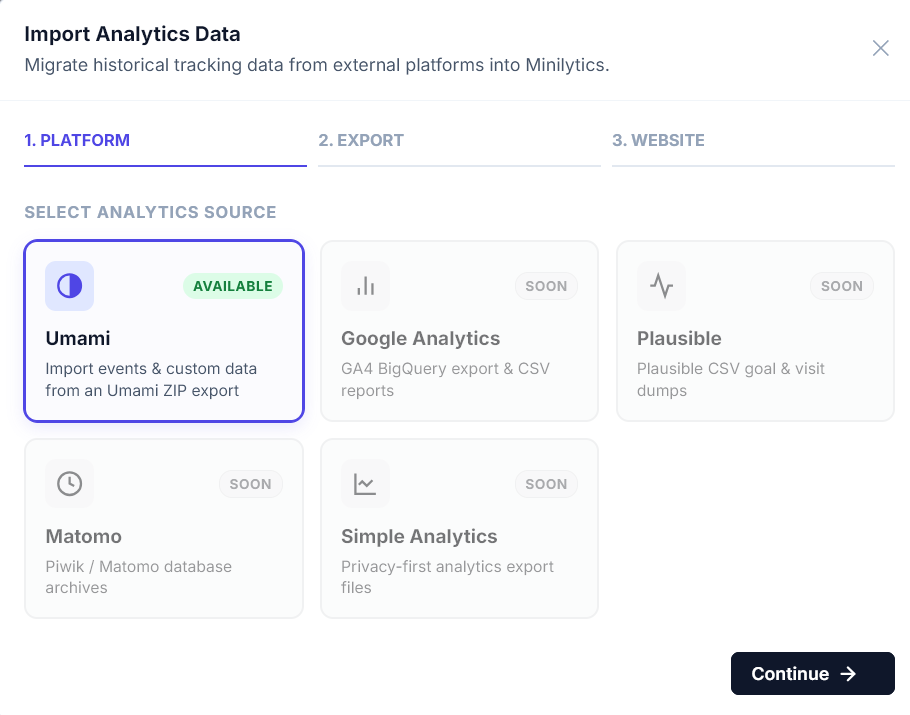
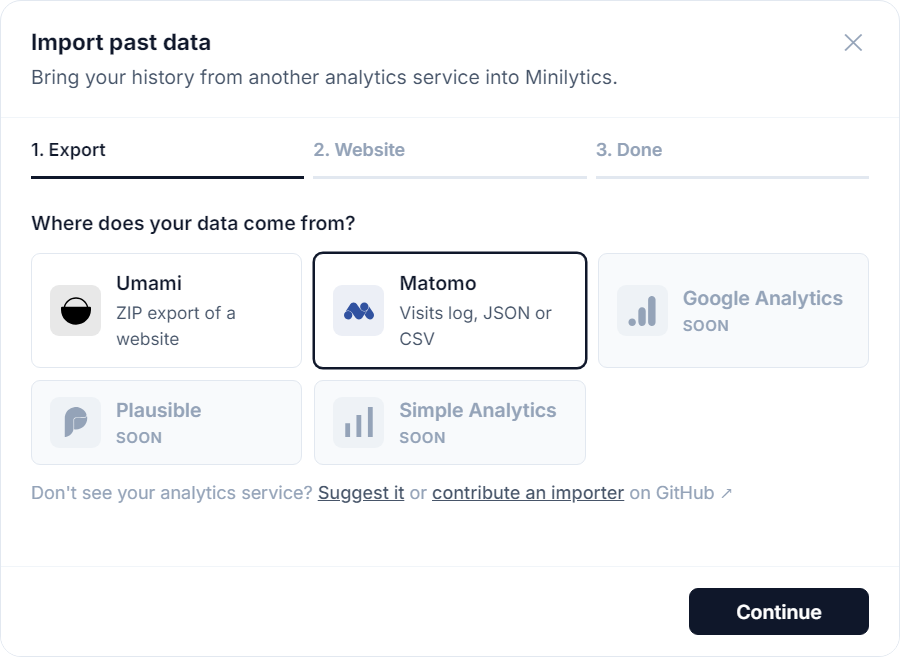
docs: add Umami and Matomo import guides
Each import source gets its own page on the docs website, from the
export to what you find in Minilytics afterwards. The importing page
links to them and explains how to keep the whole history. The
screenshots show the new import window, and the README and landing
page list Matomo as supported.

diff --git a/landing/index.html b/landing/index.html
@@ -196,16 +196,16 @@
                         </p>
                         <p class="card-sub">
                             Import past pageviews, custom events, and visitor
-                            sessions directly from <strong>Umami</strong> via
-                            the web dashboard or CLI. Support for Google
-                            Analytics (GA4), Plausible, Matomo, and Simple
-                            Analytics is actively planned.
+                            sessions directly from <strong>Umami</strong> and
+                            <strong>Matomo</strong> via the web dashboard or
+                            CLI. Support for Google Analytics (GA4), Plausible,
+                            and Simple Analytics is actively planned.
                         </p>
                     </div>
                     <div class="product-shot import-shot">
                         <img
                             src="images/import-data.png"
-                            alt="Minilytics data import interface supporting Umami, Google Analytics, Plausible, and Matomo"
+                            alt="The Minilytics import window, where you choose Umami or Matomo as the source of your past data"
                         />
                     </div>
                 </article>

diff --git a/scripts/docs/docs.css b/scripts/docs/docs.css
@@ -57,6 +57,7 @@ kbd {
 .nav-group a { display: block; margin: 1px 0; padding: 6px 12px; border-radius: 8px; color: var(--muted); font-size: 14.5px; font-weight: 600; text-decoration: none; transition: background .15s, color .15s; }
 .nav-group a:hover { background: var(--surface-muted); color: var(--ink); }
 .nav-group a.is-active { background: var(--accent-pale); color: var(--accent); }
+.nav-group a.nav-sub { margin-left: 12px; padding-left: 14px; border-left: 1px solid var(--line, #e2e8f0); border-radius: 0 8px 8px 0; font-size: 13.5px; }
 .toc-title { margin: 0 0 10px; color: var(--ink); font-size: 12px; font-weight: 800; letter-spacing: 0.06em; text-transform: uppercase; }
 .toc a { display: block; padding: 4px 0 4px 12px; border-left: 2px solid var(--line); color: var(--muted); font-size: 13.5px; line-height: 1.45; text-decoration: none; }
 .toc a.toc-h3 { padding-left: 24px; font-size: 13px; }

diff --git a/scripts/build-docs.php b/scripts/build-docs.php
@@ -27,6 +27,8 @@ $pages = [
     'privacy' => ['Getting started', 'privacy/README.md'],
     'operations' => ['Running Minilytics', 'operations/README.md'],
     'importing' => ['Running Minilytics', 'importing/README.md'],
+    'importing/umami' => ['Running Minilytics', 'importing/umami.md'],
+    'importing/matomo' => ['Running Minilytics', 'importing/matomo.md'],
     'mcp' => ['Running Minilytics', 'mcp/README.md'],
 ];
 $slugByFile = array_flip(array_map(static fn(array $page): string => $page[1], $pages));
@@ -84,6 +86,10 @@ foreach ($pages as $slug => [$group, $file]) {
 // The home page lists the guides with the descriptions from docs/README.md.
 $guides = [];
 foreach (array_slice($rendered, 1) as $page) {
+    // Sub-pages, such as one guide per import source, are reached from their parent page.
+    if (str_contains($page['slug'], '/')) {
+        continue;
+    }
     preg_match('/\[[^\]]+\]\(' . preg_quote($page['slug'], '/') . '\/README\.md\)[.:]\s*(.+)$/m', (string) file_get_contents($source . '/README.md'), $match);
     $guides[] = $page + ['summary' => ucfirst(trim($match[1] ?? $page['description']))];
 }

diff --git a/scripts/docs/template.php b/scripts/docs/template.php
@@ -30,7 +30,8 @@ function docs_page(array $page, array $pages, ?array $previous, ?array $next, ar
             $group = $item['group'];
         }
         $current = $item['slug'] === $page['slug'];
-        $nav .= '<a href="' . $e($item['url']) . '"' . ($current ? ' class="is-active" aria-current="page"' : '') . '>' . $e($item['slug'] === '' ? 'Introduction' : $item['title']) . '</a>';
+        $classes = trim((str_contains($item['slug'], '/') ? 'nav-sub ' : '') . ($current ? 'is-active' : ''));
+        $nav .= '<a href="' . $e($item['url']) . '"' . ($classes !== '' ? ' class="' . $classes . '"' : '') . ($current ? ' aria-current="page"' : '') . '>' . $e($item['slug'] === '' ? 'Introduction' : $item['title']) . '</a>';
     }
     $nav .= '</div>';
 

diff --git a/app/tests/php/Docs/DocsSiteTest.php b/app/tests/php/Docs/DocsSiteTest.php
@@ -91,7 +91,7 @@ final class DocsSiteTest extends TestCase
 
     public function testBuildsEveryPage(): void
     {
-        foreach (['', 'tracking/', 'privacy/', 'operations/', 'importing/', 'mcp/'] as $page) {
+        foreach (['', 'tracking/', 'privacy/', 'operations/', 'importing/', 'importing/umami/', 'importing/matomo/', 'mcp/'] as $page) {
             $this->assertFileExists(self::$site . '/' . $page . 'index.html');
         }
         $this->assertFileExists(self::$site . '/_static/search-index.js');

diff --git a/docs/importing/matomo.md b/docs/importing/matomo.md
@@ -1,0 +1,79 @@
+# Import from Matomo
+
+Minilytics imports every visit your Matomo still keeps, with its pages, events, outlinks, downloads, site searches, goals and ecommerce orders. Each one shows up in your dashboard like the data Minilytics collects itself, so your charts continue where Matomo stopped.
+
+Matomo, Matomo Cloud and older Piwik installations all work the same way.
+
+## 1. Export your visits from Matomo
+
+1. In Matomo, open **Visitors → Visits Log**.
+2. In the date selector, choose **Date range** and pick the whole period you want to keep, for example from the day you installed Matomo until today.
+3. Below the list of visits, click the export icon (**Export this dataset**).
+4. Choose **CSV** or **JSON**, set the export limit to **all rows**, then click **Export**.
+
+Your browser downloads a file with all the visits of the period. Keep it as it is, there is nothing to change in it.
+
+> Export the **Visits Log** report, not **Visits Overview**. Only the Visits Log holds each visit with its pages and events. The other reports are totals, which Minilytics cannot turn back into visits.
+
+### If your website has a lot of traffic
+
+A very large export can take a long time or fail to download. In that case, export one year or one month at a time by changing the date range, then put all the files in a single ZIP and import that ZIP. A visit that appears in two files is only imported once.
+
+### Exporting with the Matomo API
+
+You can get the same export without the interface by opening this address in your browser, after replacing the parts in capitals.
+
+```text
+https://YOUR-MATOMO/index.php?module=API&method=Live.getLastVisitsDetails&idSite=SITE_ID&period=range&date=2010-01-01,today&filter_limit=-1&format=JSON&token_auth=YOUR_TOKEN
+```
+
+- `YOUR-MATOMO` is the address of your Matomo.
+- `SITE_ID` is the number of your website in Matomo, shown under **Administration → Websites → Manage**.
+- `YOUR_TOKEN` is an authentication token, created under **Administration → Personal → Security → Auth tokens**.
+
+Save the page as a `.json` file. You can also replace `format=JSON` with `format=CSV`, both give the same result once imported. To export one year at a time, change the dates, for example `date=2025-01-01,2025-12-31`.
+
+## 2. Import the file into Minilytics
+
+1. In Minilytics, click **Import Data** and choose **Matomo**.
+2. Upload your export. Minilytics shows how many visits it found, the period they cover and the website they come from.
+3. Create a new website for this data, or add it to one you already track. For a new website, the name and domain come from your Matomo, so you only need to check them.
+4. If your export goes back further than the website keeps its visits, choose whether to keep them longer (see [Keeping all your history](README.md#keeping-all-your-history)).
+5. Click **Import data**. A new website also gets its tracking tag, ready to replace the Matomo one on your pages.
+
+You can import a newer export of the same website later, for example to catch up on the visits Matomo recorded while you were switching. Visits that are already in Minilytics are not added twice.
+
+## What you find in Minilytics
+
+| In Matomo | In Minilytics |
+| --- | --- |
+| Pageviews | Pageviews, with their title, referrer and campaign |
+| Events | Custom events named after the event action, with the category, name and value as details |
+| Outlinks | `outbound_click` events, with the address of the link |
+| Downloads | `file_download` events, with the file name |
+| Site searches | `site_search` events, with the keyword and the number of results |
+| Goals | Custom events named after the goal, with its revenue |
+| Ecommerce orders | `purchase` events, with the order number, revenue and products |
+| Abandoned carts | `abandoned_cart` events, with the revenue and products |
+| Forms, media, content and errors | `form_interaction`, `media_play`, `content_impression` and `js_error` events |
+| Custom variables and custom dimensions | Details of each pageview and event |
+
+Visitors keep their browser, operating system, device, screen size, language, country, region and city. When Matomo knows a visitor across several visits, Minilytics recognizes them as the same visitor too. A User ID set in Matomo is never copied as is, so no email address or account name ends up in Minilytics.
+
+## If something goes wrong
+
+**Minilytics finds no visits in the file.** The file is probably another Matomo report. Export the **Visits Log** again, as described above.
+
+**The oldest visits are missing.** Matomo may delete its oldest visits on its own, depending on **Administration → Privacy → Anonymize data → Delete old raw data**. Minilytics can only import the visits that are still in Matomo. Check also the history choice you made during the import, as visits older than the website keeps are left out.
+
+**The upload is refused because the file is too large.** Split the export by year, as explained in [If your website has a lot of traffic](#if-your-website-has-a-lot-of-traffic), raise the upload limit as explained in [Operations](../operations/README.md#large-imports), or use the command line below.
+
+## From the command line
+
+If you can open a terminal on your server, run this command from the Minilytics folder.
+
+```bash
+php bin/import.php --provider matomo --file matomo-visits.csv --site-id my_site
+```
+
+Use `--zip` instead of `--file` for a ZIP of several exports, and add `--retention-days 760` to keep up to about 25 months of visits. Run `php bin/import.php --help` to see every option.

diff --git a/docs/importing/umami.md b/docs/importing/umami.md
@@ -1,0 +1,49 @@
+# Import from Umami
+
+Minilytics imports the pageviews and custom events of your Umami website, with the data attached to each event. Each one shows up in your dashboard like the data Minilytics collects itself, so your charts continue where Umami stopped.
+
+## 1. Export your data from Umami
+
+1. In Umami, open **Settings → Data access → Data**.
+2. In the **Export** section, click **Export**. If you have multiple websites, choose the one you want to export, and the period of visits to include. The export can take a few minutes, depending on how many visits you have, and you will receive an email when it is ready.
+3. Download the ZIP file Umami prepares. Keep it as it is, there is nothing to change in it.
+
+The ZIP holds a `website_event.csv` file with your pageviews and events, and an `event_data.csv` file with the details of your custom events.
+
+## 2. Import the file into Minilytics
+
+1. In Minilytics, click **Import Data** and choose **Umami**.
+2. Upload the ZIP file. Minilytics shows how many visits it found, the period they cover and the website they come from.
+3. Create a new website for this data, or add it to one you already track. For a new website, the name and domain are filled in from the export, so you only need to check them.
+4. If your export goes back further than the website keeps its visits, choose whether to keep them longer (see [Keeping all your history](README.md#keeping-all-your-history)).
+5. Click **Import data**. A new website also gets its tracking tag, ready to replace the Umami one on your pages.
+
+You can import a newer export of the same website later, for example to catch up on the visits Umami recorded while you were switching. Visits that are already in Minilytics are not added twice.
+
+## What you find in Minilytics
+
+| In Umami      | In Minilytics                                                   |
+| ------------- | --------------------------------------------------------------- |
+| Pageviews     | Pageviews, with their title, referrer and campaign              |
+| Custom events | Custom events with the same name                                |
+| Event data    | Details of each custom event, as numbers, text or yes/no values |
+
+Visitors keep their browser, operating system, device, screen size, language, country, region and city.
+
+## If something goes wrong
+
+**Minilytics cannot find `website_event.csv`.** The ZIP does not come from the Umami export, or its files were renamed. Export your website again, or check the file names if you created them from the database.
+
+**The oldest visits are missing.** Check the history choice you made during the import, as visits older than the website keeps are left out.
+
+**The upload is refused because the file is too large.** Raise the upload limit as explained in [Operations](../operations/README.md#large-imports), or use the command line below.
+
+## From the command line
+
+If you can open a terminal on your server, run this command from the Minilytics folder.
+
+```bash
+php bin/import.php --zip umami-export.zip --site-id my_site
+```
+
+Add `--retention-days 760` to keep up to about 25 months of visits. Run `php bin/import.php --help` to see every option.

diff --git a/docs/importing/README.md b/docs/importing/README.md
@@ -2,30 +2,40 @@
 
 Moving from another analytics tool? Import your past data so you keep your history.
 
-- [x] Umami
+Each service has its own guide, from the export to what you find in Minilytics afterwards.
+
+- [x] [Umami](umami.md)
+- [x] [Matomo](matomo.md)
 - [ ] Google Analytics (planned)
 - [ ] Plausible (planned)
-- [ ] Matomo (planned)
 - [ ] Simple Analytics (planned)
 
-> Your service is not supported yet? Contributions of new importers are very welcome on [GitHub](https://github.com/axthauvin/minilytics).
+> Your service is not supported yet? [Suggest it](https://github.com/axthauvin/minilytics/issues/new) or contribute a new importer on [GitHub](https://github.com/axthauvin/minilytics).
 
 ## From the dashboard
 
-1. Export your data from Umami as a ZIP file.
-2. In Minilytics, click **Import Data** and choose Umami.
-3. Upload the ZIP file, then choose an existing website or create a new one for this data.
+1. Export your data from your current service, as its guide explains.
+2. In Minilytics, click **Import Data**, or **Add New Website** then **Import past data**.
+3. Choose the service and upload the export. Minilytics shows how many visits it found and the period they cover.
+4. Create a new website for this data, or add it to one you already track. For a new website, the name and domain are filled in from the export, so you only need to check them.
+5. Click **Import data**. A new website also gets its tracking tag, so new visits keep coming in after your history.
 
-![The import window, where you choose the service to import from](../assets/import-data.png)
+![The import window with a Matomo export ready, showing its number of visits, period and website](../assets/import-data.png)
+
+Importing the same export twice does not count your visits twice. You can import a newer export of the same website at any time, and only the new visits are added.
 
 Very large exports may exceed your server's upload limit. In that case, raise the limit as explained in [Operations](../operations/README.md#large-imports), or use the command line below.
+
+## Keeping all your history
+
+Each website keeps its visits for a limited time, about 13 months by default (see [Website settings](../privacy/README.md#website-settings)). If your export goes further back, Minilytics asks what to do before importing. You can keep the website's visits longer, up to about 25 months, so your whole history is imported, or keep the current setting and leave the older visits out. You can change this later in **Settings → Tracking**.
 
 ## From the command line
 
 If you can open a terminal on your server, run this command from the Minilytics folder.
 
 ```bash
-php bin/import.php --zip umami-export.zip --site-id my_site
+php bin/import.php --provider matomo --file matomo-visits.csv --site-id my_site
 ```
 
-Replace `my_site` with the identifier of the website that receives the data. Run `php bin/import.php --help` to see every option.
+Replace `matomo` with the service your export comes from, and `my_site` with the identifier of the website that receives the data. The guide of each service gives its exact command. Run `php bin/import.php --help` to see every option.

diff --git a/README.md b/README.md
@@ -14,7 +14,7 @@
 Minilytics is a lightweight, privacy-friendly web analytics tool written in PHP. Most analytics tools need Node.js, Docker or a separate database server. **Minilytics doesn't**.
 
 - **Runs on a cheap Apache hosting plan, no VPS needed.** It stores data in SQLite by default, and MySQL and MariaDB are also supported. Installation takes [three steps](#production-installation). Just upload the archive and you are done.
-- **Bring your history with you.** You can import your [Umami](docs/importing/README.md) data from the dashboard or the command line. Importers for Google Analytics, Plausible, Matomo and Simple Analytics are planned.
+- **Bring your history with you.** You can import your [Umami and Matomo](docs/importing/README.md) data from the dashboard or the command line. Importers for Google Analytics, Plausible and Simple Analytics are planned.
 
 ![Screenshot of the Minilytics dashboard](docs/assets/dashboard.png)
 
